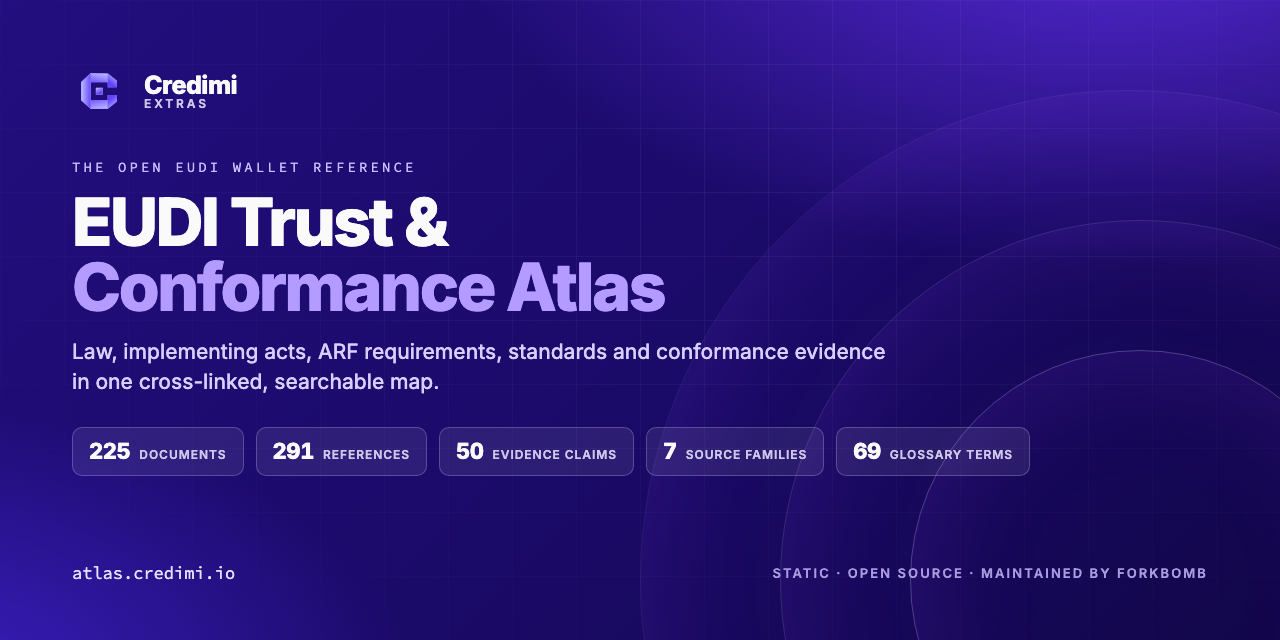
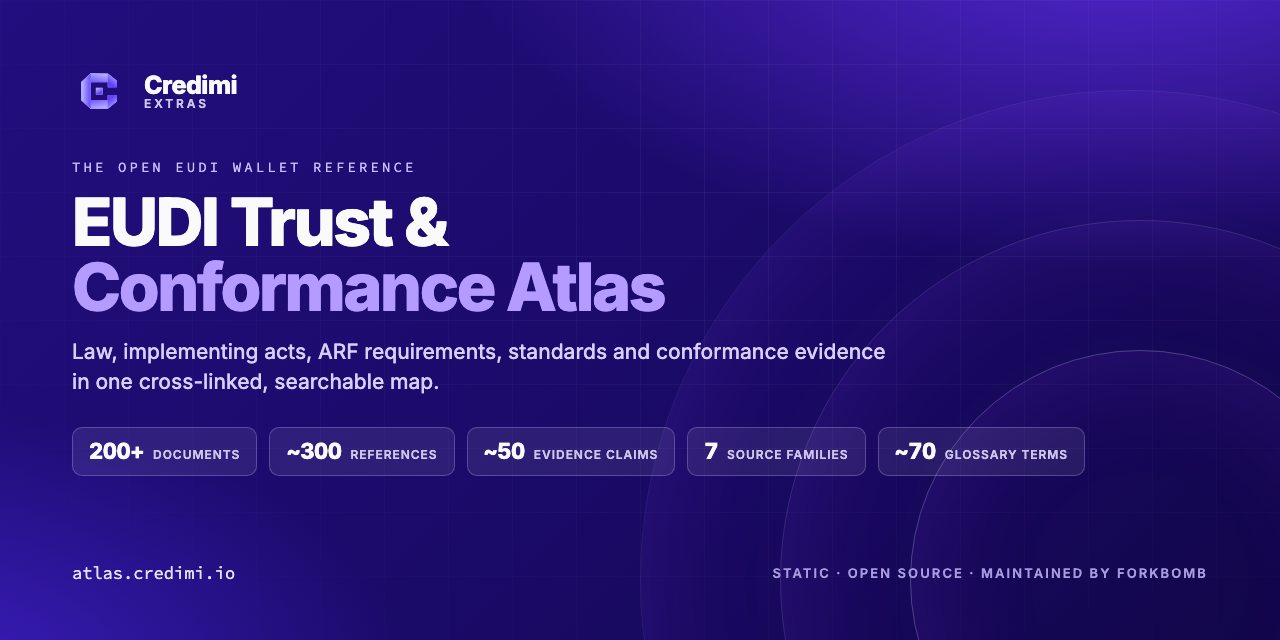
chore(copy): round changing catalogue counts
reason:
exact document, reference and test counts go stale with every review;
marketing surfaces now say 200+, ~300 and ~700 while data pages keep
exact totals.

prompt:
Use approximate counts everywhere they drift.

Changed region(s): [[0.0625, 0.6875, 0.8438, 0.75]]

diff --git a/docs/og-cover.html b/docs/og-cover.html
@@ -223,11 +223,11 @@
       </p>
 
       <div class="stats">
-        <div class="stat"><b>225</b><span>documents</span></div>
-        <div class="stat"><b>291</b><span>references</span></div>
-        <div class="stat"><b>50</b><span>evidence claims</span></div>
+        <div class="stat"><b>200+</b><span>documents</span></div>
+        <div class="stat"><b>~300</b><span>references</span></div>
+        <div class="stat"><b>~50</b><span>evidence claims</span></div>
         <div class="stat"><b>7</b><span>source families</span></div>
-        <div class="stat"><b>69</b><span>glossary terms</span></div>
+        <div class="stat"><b>~70</b><span>glossary terms</span></div>
       </div>
     </div>
 

diff --git a/src/_data/site.js b/src/_data/site.js
@@ -9,6 +9,12 @@ module.exports = function () {
       "",
     ),
     name: "EUDI Trust & Conformance Atlas",
+    // Marketing copy rounds the catalogue up instead of pinning an exact count
+    // that changes with every review; exact totals stay on data-driven pages.
+    documentsLabel: "200+",
+    referencesLabel: "~300",
+    fcafLabel: "~700",
+    glossaryLabel: "~70",
     org: "Credimi / Forkbomb BV",
     orgUrl: "https://credimi.io",
   };

diff --git a/README.md b/README.md
@@ -32,21 +32,21 @@ Tracking them by hand means reading PDFs, diffing EUR-Lex pages and hoping nothi
 
 ## What's inside
 
-|         |                                                     |
-| ------: | --------------------------------------------------- |
-| **225** | documents mapped across the whole rulebook stack    |
-| **291** | official references, grouped by 7 source families   |
-|  **50** | evidence claims across 10 conformance profiles      |
-|  **69** | glossary terms covering 222 documents               |
-|   **0** | databases, build-time APIs or JavaScript frameworks |
+|          |                                                     |
+| -------: | --------------------------------------------------- |
+| **200+** | documents mapped across the whole rulebook stack    |
+| **~300** | official references, grouped by 7 source families   |
+|  **~50** | evidence claims across 10 conformance profiles      |
+|  **~70** | glossary terms covering 200+ documents              |
+|    **0** | databases, build-time APIs or JavaScript frameworks |
 
-Covers eIDAS Regulation (EU) 2024/1183, Implementing Regulations (EU) 2024/2977, 2024/2980, 2024/2981, 2024/2982, the EUDI ARF, ETSI TS 119 472, OpenID4VCI, OpenID4VP, SD-JWT VC, ISO/IEC 18013-5/-7 mdoc, the WE BUILD WP4 pilot work and the thirteen approved EWC EUDI Wallet RFCs and the IETF Agent-to-Wallet Protocol draft.
+Covers eIDAS Regulation (EU) 2024/1183, Implementing Regulations (EU) 2024/2977, 2024/2980, 2024/2981, 2024/2982, the EUDI ARF, ETSI TS 119 472, OpenID4VCI, OpenID4VP, SD-JWT VC, ISO/IEC 18013-5/-7 mdoc, the WE BUILD WP4 pilot work, the thirteen approved EWC EUDI Wallet RFCs and the IETF Agent-to-Wallet Protocol draft.
 
 ## Highlights
 
 - **Regulatory radar** — every document as a dot placed by stack layer and status, plus a momentum chart of status changes per half-year and a dated timeline.
-- **Search-first reference** — filter all 225 documents by stack layer, status, type, ARF essential, or free text with shareable URL state (`?q=`, `?stack=`, `?role=`).
-- **FCAF catalogue** — 676 wallet-solution test cases grouped by role and section, each with its normative references and a link to the upstream test definition.
+- **Search-first reference** — filter all 200+ documents by stack layer, status, type, ARF essential, or free text with shareable URL state (`?q=`, `?stack=`, `?role=`).
+- **FCAF catalogue** — about 700 wallet-solution test cases grouped by role and section, each with its normative references and a link to the upstream test definition.
 - **Evidence registry** — each claim page shows actor under test, domain, status and its full reference list, normalized and counted per family.
 - **Machine-readable data** — download the document map as YAML, subscribe to the Atom feed of rulebook updates, or read `llms.txt`.
 - **SEO done properly** — canonical URLs, Open Graph and Twitter cards with a generated cover, JSON-LD (WebSite, Organization, WebPage, BreadcrumbList), sitemap and robots.txt on every page.
@@ -87,7 +87,7 @@ Browse the EUDI ecosystem map by task and use role filters where available. Leav
 
 ### Reference and FCAF
 
-Use **Reference** to filter all documents by stack layer, status, type, new or updated in this edition, and ARF essential, or by free text (`?q=`, `?stack=` and `?role=` preselect filters). Use **FCAF** to inspect the EUDI Wallet functional conformance catalogue — 676 wallet-solution test cases for the attestation-provider and relying-party roles, grouped by section with their normative references — and the Credimi evidence claims; each evidence claim page lists every official reference grouped by source family (EU legal act, EUDI ARF, ETSI ESI, OpenID4VC, IETF, ISO, WE BUILD WP4) with per-family counts and one row per reference (document ID, clause, purpose). `src/_data/evidence.js` normalizes those rows and fails the build on an unknown family, and `scripts/validate-source-of-truth-evidence.mjs` checks that no reference is dropped.
+Use **Reference** to filter all documents by stack layer, status, type, new or updated in this edition, and ARF essential, or by free text (`?q=`, `?stack=` and `?role=` preselect filters). Use **FCAF** to inspect the EUDI Wallet functional conformance catalogue — about 700 wallet-solution test cases for the attestation-provider and relying-party roles, grouped by section with their normative references — and the Credimi evidence claims; each evidence claim page lists every official reference grouped by source family (EU legal act, EUDI ARF, ETSI ESI, OpenID4VC, IETF, ISO, WE BUILD WP4) with per-family counts and one row per reference (document ID, clause, purpose). `src/_data/evidence.js` normalizes those rows and fails the build on an unknown family, and `scripts/validate-source-of-truth-evidence.mjs` checks that no reference is dropped.
 
 ### Glossary
 

diff --git a/docs/design-assets.md b/docs/design-assets.md
@@ -4,4 +4,4 @@
 
 `css/app.css` loads after the shared foundation and is limited to Atlas-specific layout and composition: the brand hero and stack visual, status pills (glyph plus label, never colour alone), the radar timeline, and the labelled Credimi promotion blocks (`src/_includes/components/credimi.njk`). It adds dark-surface button variants as new classes and does not restyle shared components. Update an HITL input intentionally, then synchronize its runtime copy.
 
[2 lines of base64/hex data omitted]
